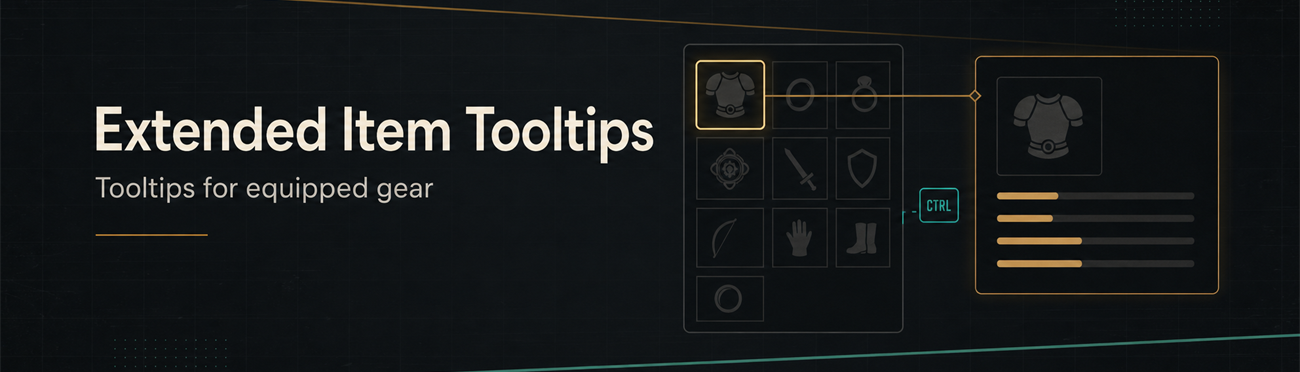
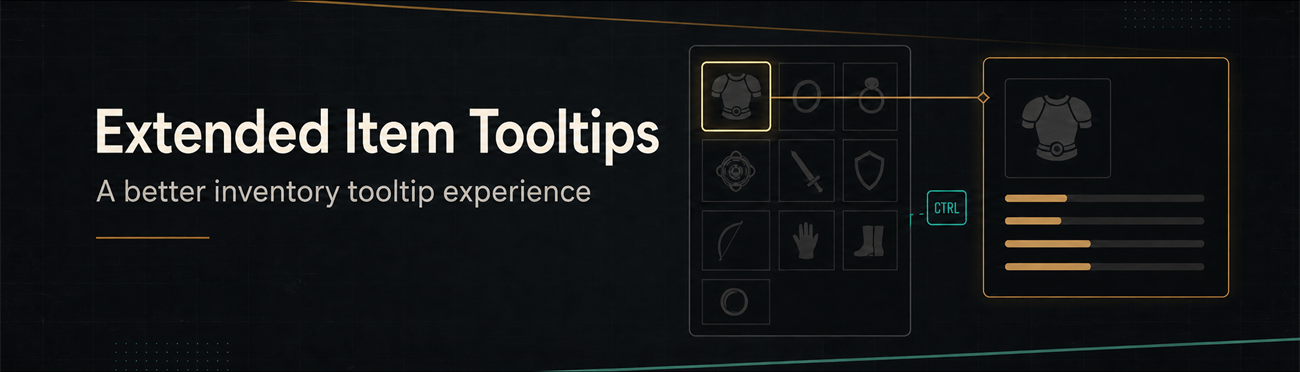
Refine Nexus presentation

diff --git a/nexus.md b/nexus.md
@@ -1,57 +1,51 @@
 # Extended Item Tooltips
 
-**Checkout my other mods**
+**Check out my other mods**
 
 [G1R - Optimizer](https://www.nexusmods.com/gothic1remake/mods/68) | [G1R - Cancel Interactions](https://www.nexusmods.com/gothic1remake/mods/181) | [Let Snaf Cook](https://www.nexusmods.com/gothic1remake/mods/448) | [QuickBites](https://www.nexusmods.com/gothic1remake/mods/452)
 
 Equipped gear should not feel like dead UI.
 
-In the inventory, backpack items already show useful tooltips when you hover them. Equipped items, however, can sit right there on the character sheet without showing the same information. Armor, rings, amulets, weapons, and similar equipped slots deserve the same treatment.
+Extended Item Tooltips shows the game's existing tooltips when you hover
+equipped armor, jewelry, or weapons. It also extends the native comparison flow
+to compatible melee and ranged weapons in the backpack.
 
-This UE4SS Lua mod shows item tooltips when hovering equipped inventory items
-and extends the game's native comparison flow to compatible backpack weapons.
+## Features
 
-## What It Does
+- Shows native item tooltips for equipped inventory slots
+- Supports armor, jewelry, melee weapons, and ranged weapons
+- Compares backpack weapons with equipped hotbar weapons of the same type
+- Leaves the game's existing armor and jewelry comparison logic intact
+- Uses the native UI and supports existing savegames
+- Does not add items or change stats, balance, inventory contents, or save data
 
-- Shows the game's existing item tooltip for equipped inventory slots
-- Works for wearable/equipment slots such as armor, jewelry, and weapons
-- Adds comparison support for compatible backpack melee and ranged weapons
-- Leaves the game's existing armor, ring, and amulet comparisons untouched
-- Adds a localized ON/OFF option under Settings -> Mods -> Extended Item Tooltips for enabling comparisons by default
-- Uses the game's existing tooltip UI
-- Does not add new items
-- Does not change item stats, balance, equipment, or inventory contents
-- Existing savegames are supported
-- Does not modify savegame data
+## Native Settings
 
-## How Comparison Works
+PleasureLib adds native controls under
+**Settings -> Mods -> Extended Item Tooltips**:
 
-Left Ctrl toggles the native comparison view while the inventory is open. You
-can choose whether comparisons start enabled under Settings -> Mods -> Extended Item Tooltips.
-That preference is saved and restored automatically.
+- **Show comparisons by default** determines whether compatible comparisons are
+  already active when the inventory opens
+- **Weapon comparison delay** controls how long a backpack weapon must remain
+  hovered before its comparison is built (`150`-`500` ms)
+
+Changes are saved automatically. The Left Ctrl hint appears immediately; only
+the comparison update waits for a stable hover. Left Ctrl still toggles
+comparisons temporarily while the inventory is open. No INI editing is needed
+for normal use.
+
+## Weapon Comparison
+
+Weapons assigned to the hotbar act as the equipped comparison weapons. The mod
+checks the hotbar from slot 1 upward and uses the first weapon of the matching
+type:
+
+- Melee weapons are compared with the first melee weapon
+- Ranged weapons are compared with the first ranged weapon
+- No comparison is shown without a matching hotbar weapon or when a weapon would
+  be compared with itself
 
 Armor, rings, and amulets continue to use the game's existing comparison logic.
-The mod extends that same comparison flow to melee and ranged weapons.
-
-Weapons assigned to the hotbar act as the equipped comparison weapons. When
-several weapons of the same type are assigned, the mod checks the hotbar from
-slot 1 upward and uses the first matching weapon:
-
-- Melee weapons are compared with the first melee weapon in the hotbar
-- Ranged weapons are compared with the first ranged weapon in the hotbar
-- If the hotbar contains no weapon of the matching type, no comparison tooltip
-  is shown
-- A weapon that is itself assigned to the hotbar does not start a comparison
-  with itself
-
-Advanced users can override the inventory slot hover/unhover hook paths in the ini file:
-
-```ini
-SlotHoverHooks=
-SlotUnhoverHooks=
-```
-
-Leave these empty unless a game update changes the widget function names.
 
 ## Requirements
 
@@ -61,113 +55,47 @@ Leave these empty unless a game update changes the widget function names.
 
 ## Installation
 
-Install PleasureLib and Extended Item Tooltips as neighboring folders in your
-UE4SS Mods directory:
+Install PleasureLib and Extended Item Tooltips as neighboring folders in the
+UE4SS `Mods` directory:
 
 ```text
 G1R/Binaries/Win64/ue4ss/Mods/ExtendedItemTooltips/
 G1R/Binaries/Win64/ue4ss/Mods/PleasureLib/
 ```
 
-The installed folder should include:
+No additional setup is required.
 
-```text
-ExtendedItemTooltips/enabled.txt
-ExtendedItemTooltips/ExtendedItemTooltips.ini
-ExtendedItemTooltips/readme.txt
-ExtendedItemTooltips/Scripts/*.lua
-```
+## Advanced Configuration
 
-## Optional INI Configuration
+Most players should use the native settings menu. Its values are stored in
+`ExtendedItemTooltips.ini` as `ComparisonDefaultEnabled` and
+`TooltipCooldownMs`.
 
-You can edit ExtendedItemTooltips.ini in the mod folder:
-
-```ini
-Enabled=true
-Debug=false
-TooltipCooldownMs=150
-ForceTooltipVisibility=true
-EnableComparisonTooltips=true
-ComparisonDefaultEnabled=false
-```
-
-Leave Debug=false for normal play.
-
-Enable Debug=true only when collecting UE4SS log output for hover or tooltip issues.
-
-TooltipCooldownMs controls how long a backpack weapon must remain hovered before the native comparison tooltip is built (150-500 ms, default 150). The Left Ctrl hint appears immediately; only the native comparison update waits for a stable hover.
-
-ForceTooltipVisibility keeps the game's wearable tooltip widget visible while an equipped item slot is actively hovered. Disable this only if a future game update starts showing equipped item tooltips natively or if you are troubleshooting UI conflicts.
-
-EnableComparisonTooltips enables or disables comparison support completely.
-
-ComparisonDefaultEnabled controls whether comparisons start enabled whenever
-the inventory is opened. It stores the same value as the in-game option under
-Settings -> Mods -> Extended Item Tooltips.
+The INI also provides master switches and troubleshooting options through
+`Enabled`, `Debug`, `ForceTooltipVisibility`, and `EnableComparisonTooltips`.
+Leave `SlotHoverHooks` and `SlotUnhoverHooks` empty unless a game update changes
+the relevant inventory functions.
 
 ## Compatibility
 
-This mod touches inventory slot hover behavior, the existing wearable tooltip widget, and the native comparison toggle. It should be compatible with most other mods unless they modify the same inventory functions or tooltip visibility handling.
+The mod touches inventory slot hover behavior, the existing tooltip widgets, and
+the native comparison toggle. It should be compatible with most mods unless they
+modify the same UI functions.
 
-No new items, stats, quests, save data, or balance changes are introduced.
+## Updating from 0.18.0 or Older
 
-## Updating
+Version 0.19.0 renamed the mod. With the game closed:
 
-### Updating from Equipped Item Tooltips 0.18.0 or Older
-
-Version 0.19.0 renamed the mod and its technical identifiers. With the game
-closed:
-
-1. Rename the existing `EquippedItemTooltips` folder to `ExtendedItemTooltips`
-2. Rename `EquippedItemTooltips.ini` inside it to `ExtendedItemTooltips.ini`
+1. Rename `EquippedItemTooltips` to `ExtendedItemTooltips`
+2. Rename `EquippedItemTooltips.ini` to `ExtendedItemTooltips.ini`
 3. Replace the remaining files with the new version
 
-Do not keep both mod folders installed. Both versions would register the same
-inventory hooks.
-
-If you customized the old INI, renaming it preserves your existing values.
-
-## Changelog
-
-### Initial Release
-
-- Added equipped item tooltips for inventory equipment slots
-- Uses the game's current ToolTipInfoSlot after equipped-slot hover
-- Keeps the existing wearable tooltip widget visible through its Visibility property
-- Restores the wearable-compare flag when the cursor leaves the equipped slot
-- Reduced the implementation to the confirmed working hover/unhover hooks
-
-### Native Weapon Comparison
-
-- Added comparison support for compatible backpack melee and ranged weapons
-- Uses the game's native comparison filtering and layout
-- Checks the hotbar from slot 1 upward and uses the first weapon of the matching type
-- Shows no weapon comparison when the hotbar has no matching weapon
-- Leaves armor, ring, and amulet comparison handling to the base game
-
-### Native Settings Integration
-
-- Added a localized ON/OFF option under Settings -> Mods -> Extended Item Tooltips
-- Added persistent ComparisonDefaultEnabled state
-- Added PleasureLib integration for reusable native mod settings
-- Keeps only one functional entry across complete settings-menu recreation
-
-### Renamed to Extended Item Tooltips
-
-- Renamed the visible and technical mod name to Extended Item Tooltips
-- Renamed the UE4SS mod folder and INI to `ExtendedItemTooltips`
-- Renamed the runtime, native setting ID, hot-reload namespace, and package assets
-- Updated the version to 0.19.0
-
-## Current Version
-
-`0.19.7`
-
-## Why?
-
-Because if backpack items can tell you what they are, equipped items should be polite enough to do the same.
+Do not keep both mod folders installed.
 
 ## Source Code and Issues
 
-The source code and issue tracker are available on
+Source code and issue tracking are available on
 [GitHub](https://github.com/89pleasure/G1R-ExtendedItemTooltips).
+
+Because if backpack items can tell you what they are, equipped items should be
+polite enough to do the same.